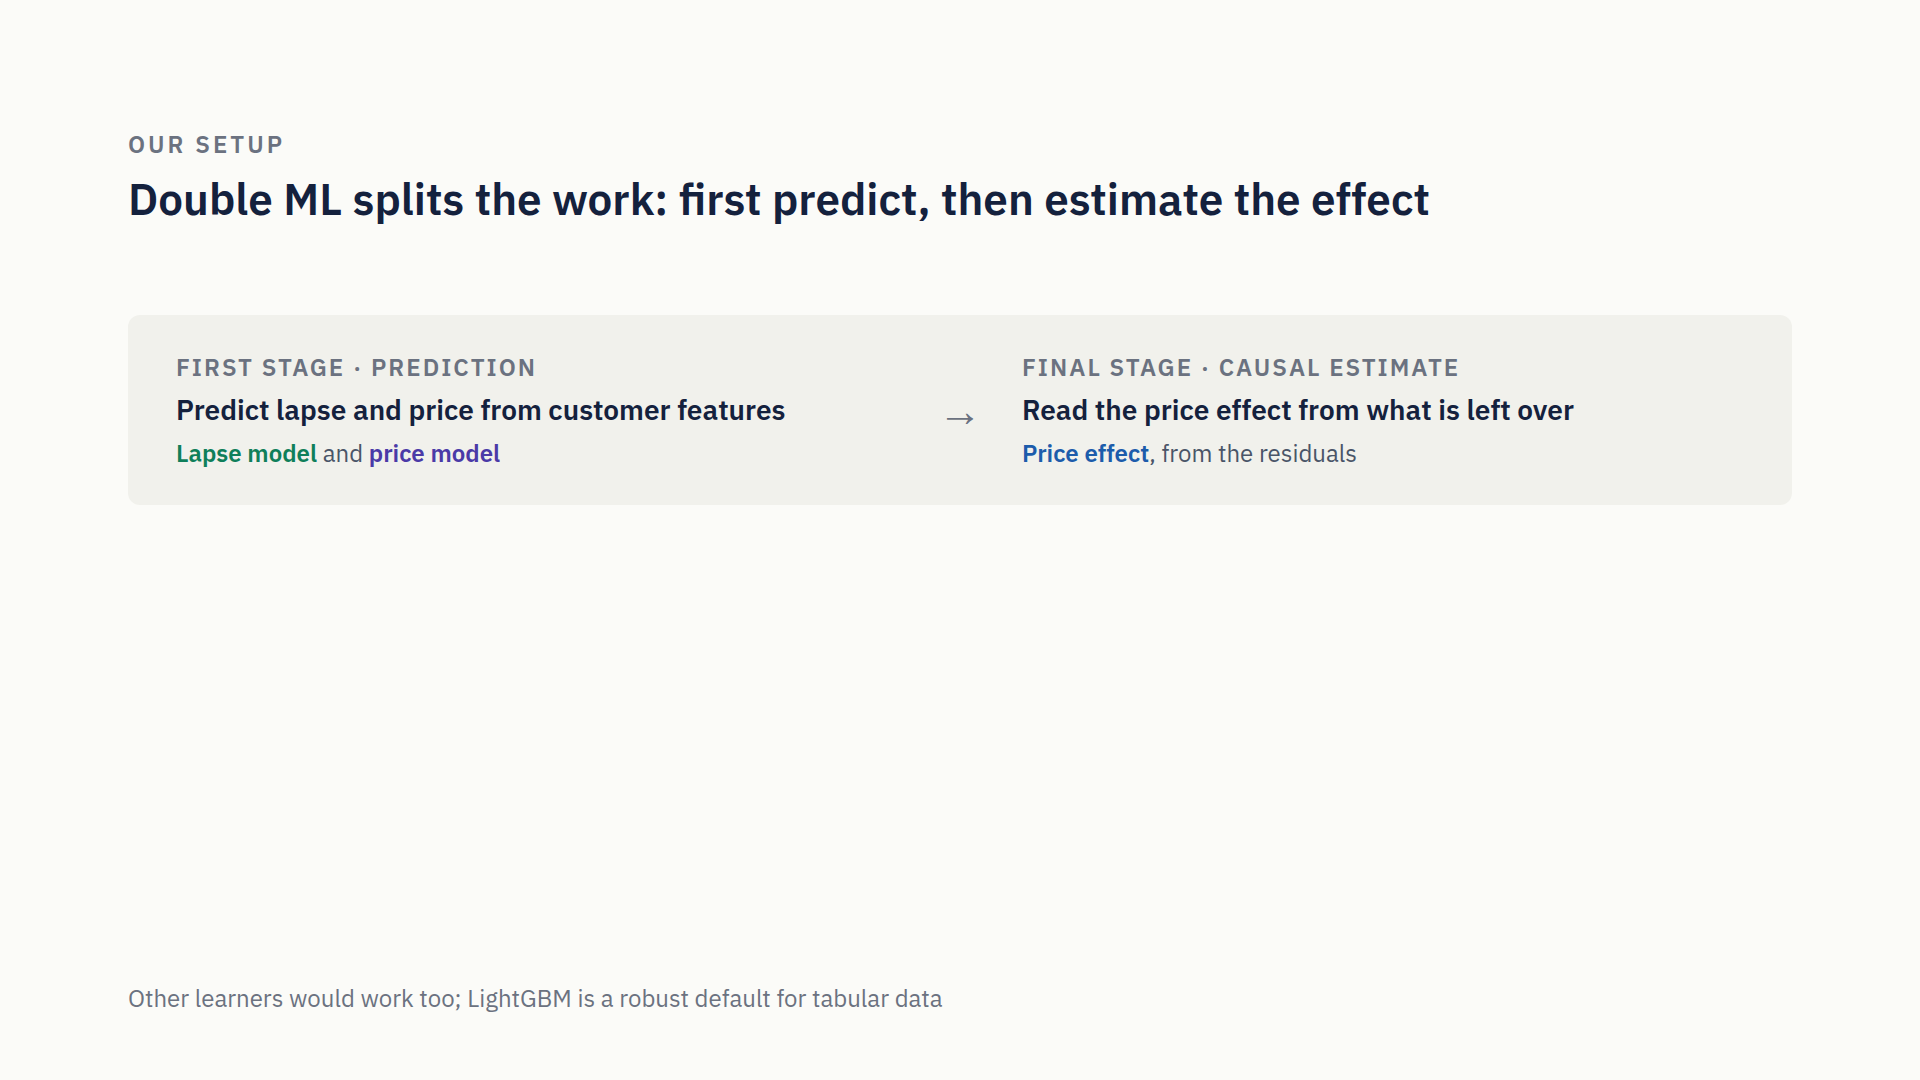
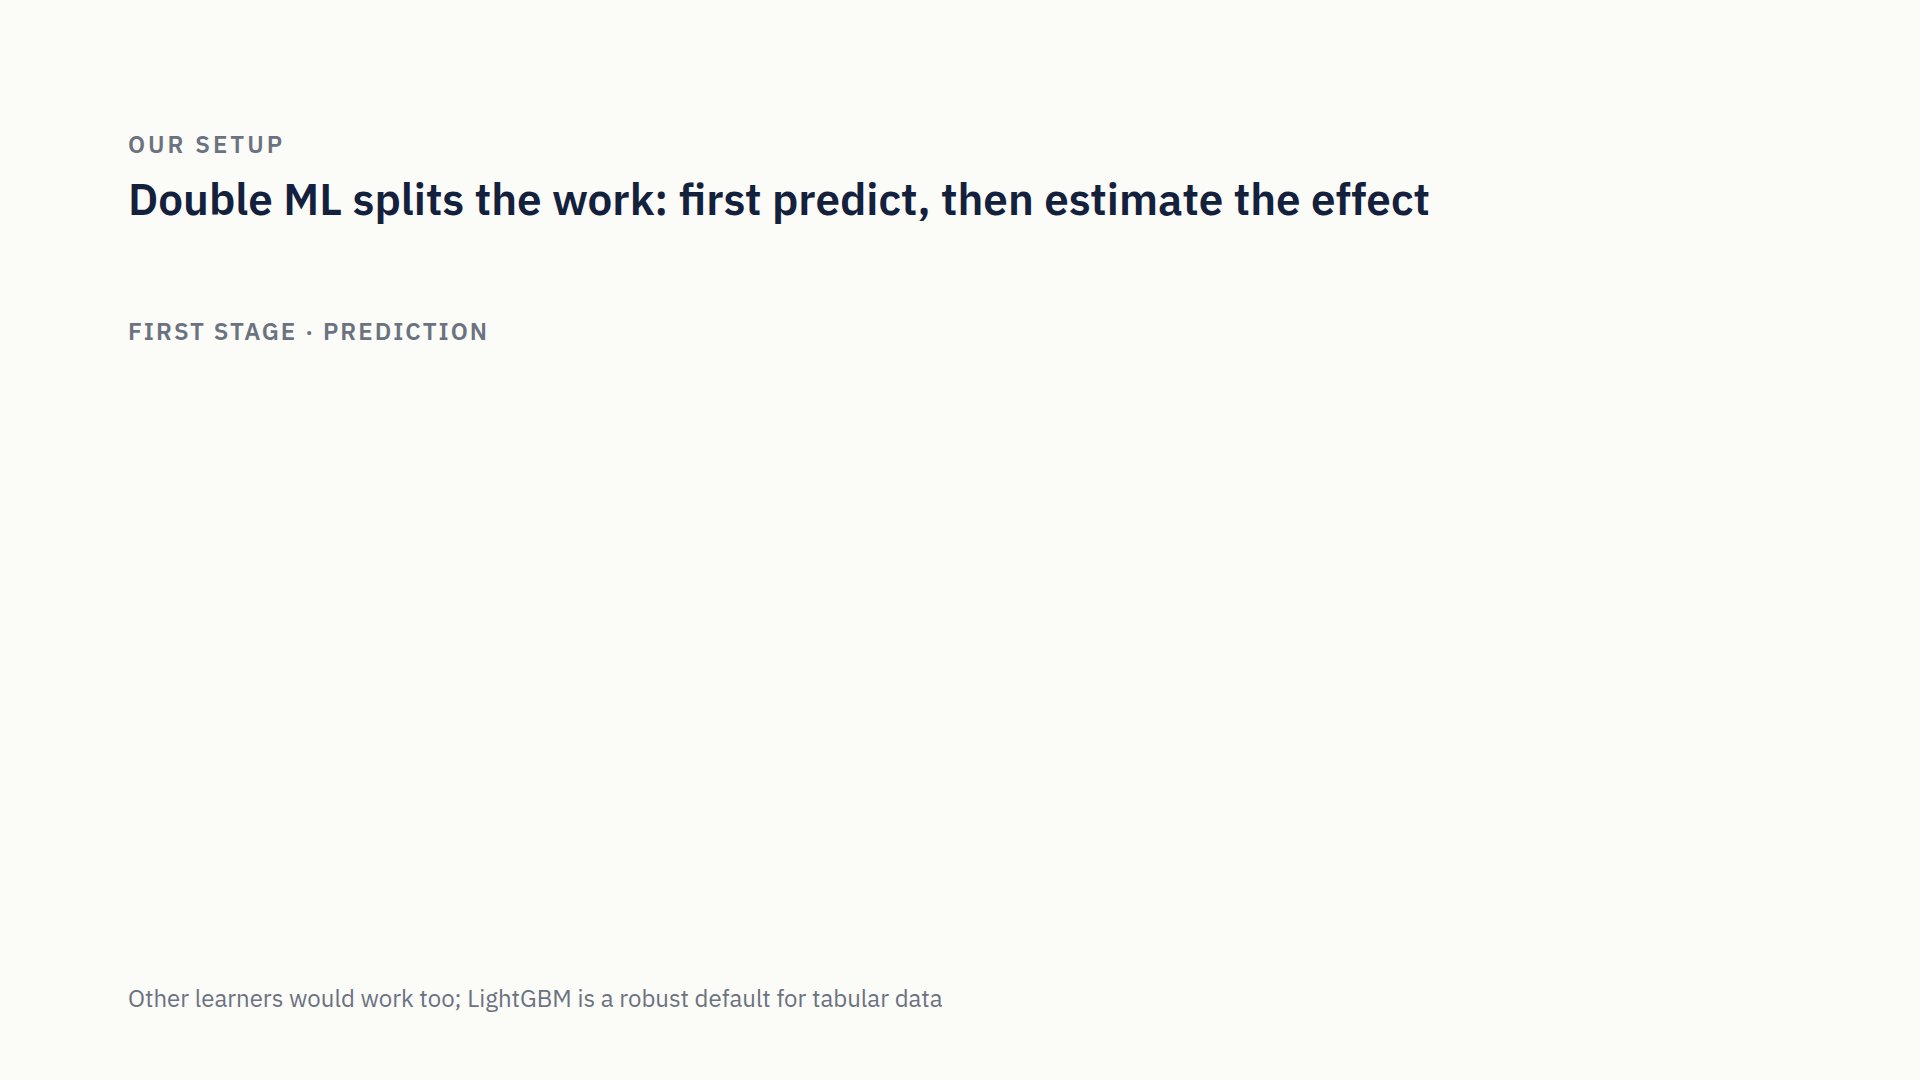
Slide 7: residual formulas built one stage per click
Replace the text strip with the Double ML recipe in the notation of the
'How Double ML works' slide: lapse model, price model, then the final
stage with a per-customer effect (new formula f_s3x). LightGBM boxes
become the fourth build.

Claude-Session: https://claude.ai/code/session_01L79CPAaUeWxGkpt4Mij7tB

Changed region(s): [[0.0625, 0.275, 0.4062, 0.4278], [0.5312, 0.3361, 0.8125, 0.4278]]

diff --git a/causal-pricing-deck/deck/project/slides/stages.html b/causal-pricing-deck/deck/project/slides/stages.html
@@ -1,20 +1,22 @@
 <section id="stages" data-transition="fade" style="background:#FBFBF8; color:#4A5568; font-family:'IBM Plex Sans', Arial, sans-serif; padding:128px 128px 160px; display:flex; flex-direction:column; gap:12px">
   <p style="font-size:24px; font-weight:600; letter-spacing:3px; text-transform:uppercase; color:#6B7280">Our setup</p>
   <h2 style="font-size:44px; font-weight:600; line-height:1.15; color:#14213D">Double ML splits the work: first predict, then estimate the effect</h2>
-  <div style="position:absolute; left:128px; top:315px; width:1664px; height:190px; display:flex; flex-direction:row; align-items:center; gap:40px; background:#F1F1EC; border-radius:12px; padding:0px 48px">
-    <div style="flex:1; display:flex; flex-direction:column; gap:8px">
-      <p style="font-size:24px; font-weight:600; letter-spacing:2px; text-transform:uppercase; color:#6B7280">First stage · prediction</p>
-      <p style="font-size:28px; font-weight:600; line-height:1.3; color:#14213D">Predict lapse and price from customer features</p>
-      <p style="font-size:24px; line-height:1.35"><span style="color:#0F7F5A; font-weight:600">Lapse model</span> and <span style="color:#4A3AA7; font-weight:600">price model</span></p>
-    </div>
-    <p style="font-size:44px; font-weight:600; color:#6B7280">→</p>
-    <div style="flex:1; display:flex; flex-direction:column; gap:8px">
-      <p style="font-size:24px; font-weight:600; letter-spacing:2px; text-transform:uppercase; color:#6B7280">Final stage · causal estimate</p>
-      <p style="font-size:28px; font-weight:600; line-height:1.3; color:#14213D">Read the price effect from what is left over</p>
-      <p style="font-size:24px; line-height:1.35"><span style="color:#1C5CAB; font-weight:600">Price effect</span>, from the residuals</p>
-    </div>
+  <p style="position:absolute; left:128px; top:315px; width:1032px; font-size:24px; font-weight:600; letter-spacing:2px; text-transform:uppercase; color:#6B7280">First stage · prediction</p>
+  <div data-build-in="fade 1" style="position:absolute; left:128px; top:360px; width:500px; height:190px; display:flex; flex-direction:column; gap:10px; background:#F1F1EC; border-radius:12px; padding:28px">
+    <img src="/_blob/1c55950a1883a917fed138e5359b19d2" alt="Y tilde equals Y minus ell hat of X" style="width:178px; height:56px">
+    <p style="font-size:24px; line-height:1.35"><span style="color:#0F7F5A; font-weight:600">Lapse model</span>: the lapse the features cannot explain</p>
   </div>
-  <div data-build-in="fade 1" style="position:absolute; left:128px; top:553px; width:1664px; display:flex; flex-direction:column; gap:20px">
+  <div data-build-in="fade 2" style="position:absolute; left:660px; top:360px; width:500px; height:190px; display:flex; flex-direction:column; gap:10px; background:#F1F1EC; border-radius:12px; padding:28px">
+    <img src="/_blob/18bbf673ce54de878a61abc84c218038" alt="T tilde equals T minus m hat of X" style="width:182px; height:56px">
+    <p style="font-size:24px; line-height:1.35"><span style="color:#4A3AA7; font-weight:600">Price model</span>: the free price variation left over</p>
+  </div>
+  <p data-build-in="fade 3" style="position:absolute; left:1180px; top:420px; width:92px; font-size:44px; font-weight:600; color:#6B7280; text-align:center">→</p>
+  <p data-build-in="fade 3" style="position:absolute; left:1292px; top:315px; width:500px; font-size:24px; font-weight:600; letter-spacing:2px; text-transform:uppercase; color:#6B7280">Final stage · causal</p>
+  <div data-build-in="fade 3" style="position:absolute; left:1292px; top:360px; width:500px; height:190px; display:flex; flex-direction:column; gap:10px; background:#F1F1EC; border-radius:12px; padding:28px">
+    <img src="/_blob/4f51e5939d496be75e8bd5d4a020cee1" alt="Y tilde approximately equals theta hat of X times T tilde" style="width:151px; height:56px">
+    <p style="font-size:24px; line-height:1.35"><span style="color:#1C5CAB; font-weight:600">Price effect</span> from the residuals, now per customer</p>
+  </div>
+  <div data-build-in="fade 4" style="position:absolute; left:128px; top:600px; width:1664px; display:flex; flex-direction:column; gap:20px">
     <h3 style="font-size:28px; font-weight:600; line-height:1.2; color:#14213D">Why LightGBM for the first stage</h3>
     <div style="display:flex; flex-direction:row; gap:32px">
       <div style="flex:1; display:flex; flex-direction:column; gap:12px; background:#F1F1EC; border-radius:12px; padding:28px">
@@ -38,9 +40,13 @@
   <p style="position:absolute; left:128px; bottom:64px; width:1480px; font-size:24px; color:#6B7280">Other learners would work too; LightGBM is a robust default for tabular data</p>
   <aside>Message: from the toy to our real setup. Double ML has two stages with two different jobs, and we chose a learner for each.
 
-The strip is a short recap of the "How Double ML works" slide, to reset after the convergence chart. First stage: pure prediction, lapse model and price model, judged like any ML model on hold-out loss. Final stage: the causal step, the price effect read from the residuals; there is no ground truth to score it against, so it rests on the assumptions (closing box of the previous slide).
+The strip is the recipe from the "How Double ML works" slide, in the same notation, built one step per click. X now stands for all customer features (rating factors), not just age.
 
-Click 1, why LightGBM in the first stage:
+Click 1, first stage, lapse model: predict lapse Y from the features, ℓ̂(X). The residual Ỹ = Y − ℓ̂(X) is the lapse the features cannot explain.
+Click 2, first stage, price model: predict price T from the features, m̂(X): the tariff. The residual T̃ = T − m̂(X) is the free price variation (discounts, loadings, tests). Both first stages are pure prediction, judged like any ML model on hold-out loss, and cross-fitted as before.
+Click 3, final stage: read the price effect from the residuals. In the toy it was one number, Ỹ ≈ θ̂·T̃. Now θ̂(X) may depend on the customer: different customers can react differently to price. How flexibly θ̂(X) may vary is the choice on the next slide. This is the causal step: there is no ground truth to score it against, so it rests on the assumptions in "What Double ML needs".
+
+Click 4, why LightGBM in the first stage:
 - Many rating factors: gradient-boosted trees learn non-linear shapes and interactions without us specifying them, unlike a GLM.
 - Categories and gaps: native handling of categorical features (also many levels) and missing values.
 - Fast: cross-fitting fits both first-stage models once per fold, so speed matters.

diff --git a/causal-pricing-deck/final/formulas_final.py b/causal-pricing-deck/final/formulas_final.py
@@ -49,6 +49,7 @@ F = {
  "f_s1":    [(r"\tilde{Y} \;=\; Y \,-\, ", INK), (r"\hat{\ell}(X)", AQ)],
  "f_s2":    [(r"\tilde{T} \;=\; T \,-\, ", INK), (r"\hat{m}(X)", VI)],
  "f_s3":    [(r"\tilde{Y} \;\approx\; \hat{\theta}\,\tilde{T}", INK)],
+ "f_s3x":   [(r"\tilde{Y} \;\approx\; \hat{\theta}(X)\,\tilde{T}", INK)],
  "f_b1":    [(r"\mathrm{bias} \;\approx\; \mathrm{price\ slope\ of}\;\,(\,\hat{f} - f\,) \;\sim\; n^{-1/3}", INK)],
  "f_b2":    [(r"\mathrm{bias} \;\approx\; \mathbb{E}[", INK), (r"(\hat{m} - m)", VI), (r"\,(\hat{g} - g)] \;/\; \mathbb{E}[V^{2}] \;\sim\; n^{-2/3}", INK)],
 }
